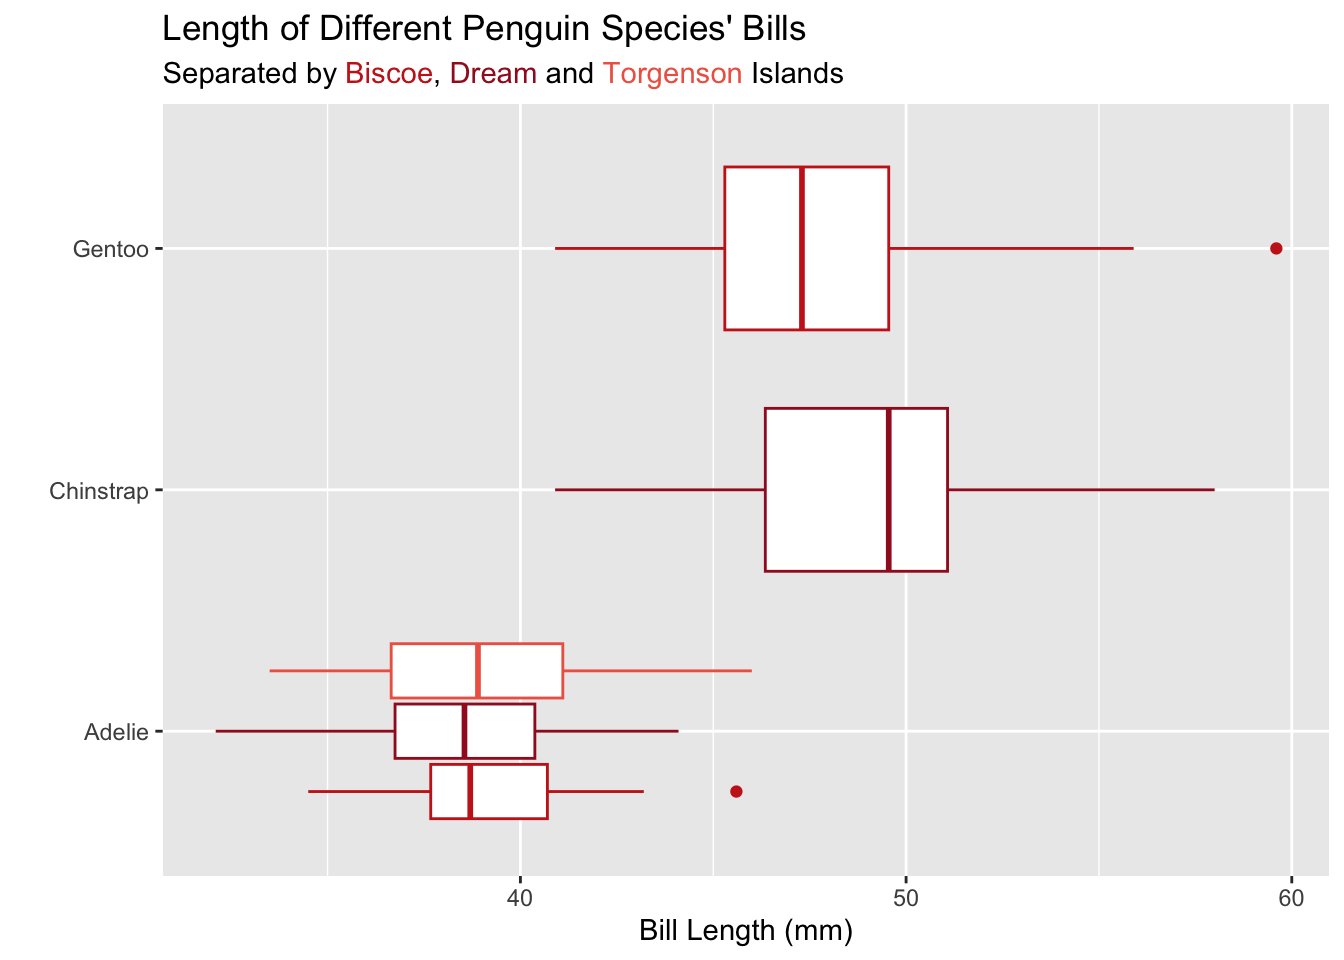
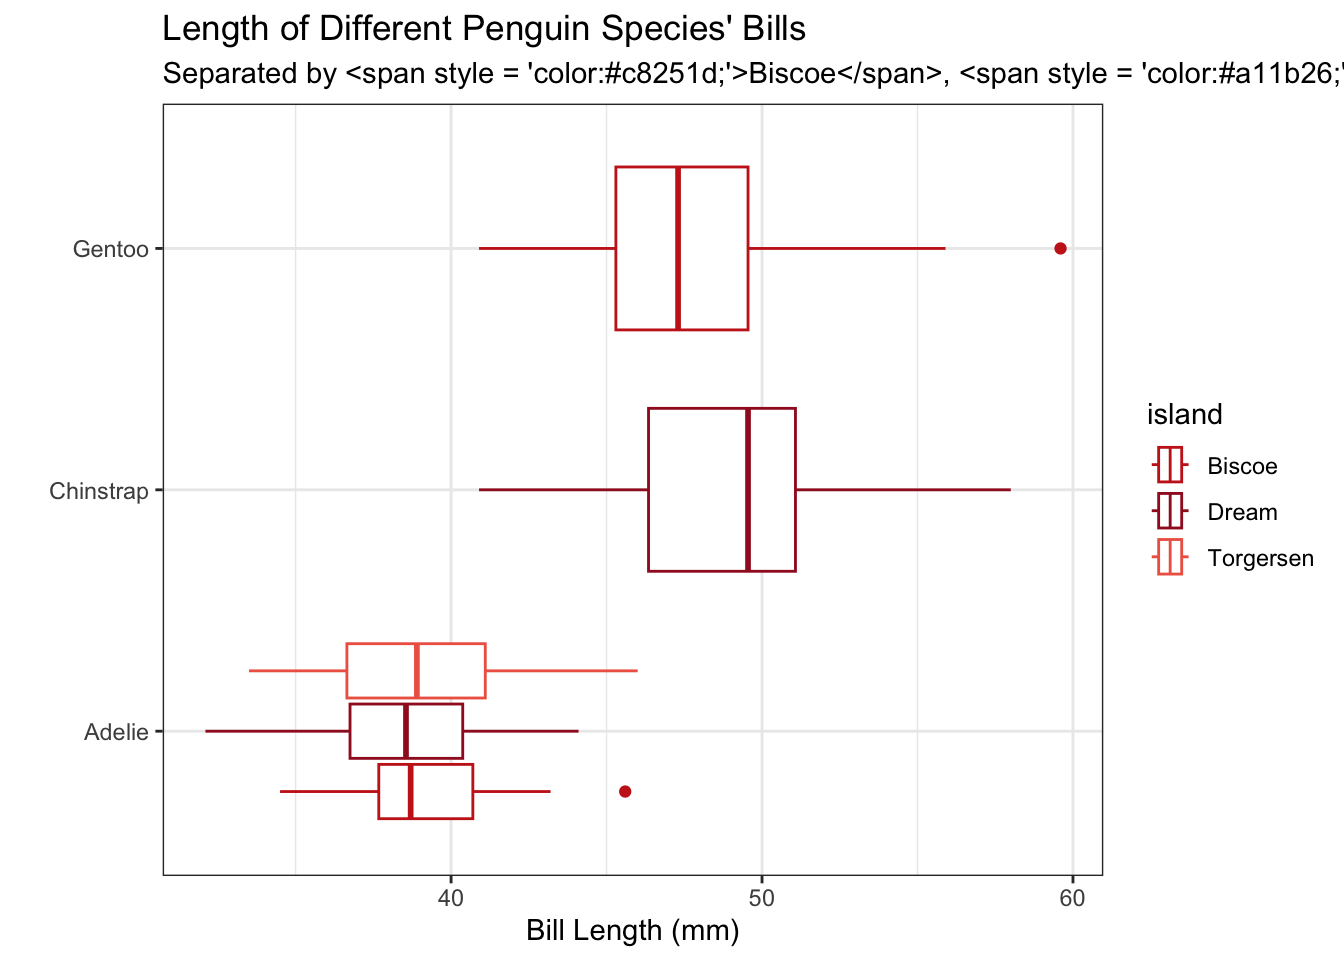
finished challenge 2, added themes and removed density ridges

diff --git a/docs/labs/instructions/challenge-2-instructions.html b/docs/labs/instructions/challenge-2-instructions.html
@@ -155,12 +155,17 @@ pre > code.sourceCode > span > a:first-child::before { text-decoration: underlin
     <h2 id="toc-title">On this page</h2>
    
   <ul>
-  <li><a href="#medium-ridge-plots" id="toc-medium-ridge-plots" class="nav-link active" data-scroll-target="#medium-ridge-plots"><svg aria-hidden="true" role="img" viewbox="0 0 512 512" style="height:1em;width:1em;vertical-align:-0.125em;margin-left:auto;margin-right:auto;font-size:inherit;fill:currentColor;overflow:visible;position:relative;"><path d="M428.3 3c11.6-6.4 26.2-2.3 32.6 9.3l4.8 8.7c19.3 34.7 19.8 75.7 3.4 110C495.8 159.6 512 197.9 512 240c0 18.5-3.1 36.3-8.9 52.8c-6.1 17.3-28.5 16.3-36.8-.1l-11.7-23.4c-4.1-8.1-12.4-13.3-21.5-13.3H360c-13.3 0-24-10.7-24-24V152c0-13.3-10.7-24-24-24l-17.1 0c-21.3 0-30-23.9-10.8-32.9C304.7 85.4 327.7 80 352 80c28.3 0 54.8 7.3 77.8 20.2c5.5-18.2 3.7-38.4-6-55.8L419 35.7c-6.4-11.6-2.3-26.2 9.3-32.6zM171.2 345.5L264 160l40 0v80c0 26.5 21.5 48 48 48h76.2l23.9 47.8C372.3 443.9 244.3 512 103.2 512H44.4C19.9 512 0 492.1 0 467.6c0-20.8 14.5-38.8 34.8-43.3l49.8-11.1c37.6-8.4 69.5-33.2 86.7-67.7z"></path></svg> Medium: Ridge Plots</a></li>
-  <li><a href="#spicy-exploring-color-themes" id="toc-spicy-exploring-color-themes" class="nav-link" data-scroll-target="#spicy-exploring-color-themes"><svg aria-hidden="true" role="img" viewbox="0 0 512 512" style="height:1em;width:1em;vertical-align:-0.125em;margin-left:auto;margin-right:auto;font-size:inherit;fill:currentColor;overflow:visible;position:relative;"><path d="M428.3 3c11.6-6.4 26.2-2.3 32.6 9.3l4.8 8.7c19.3 34.7 19.8 75.7 3.4 110C495.8 159.6 512 197.9 512 240c0 18.5-3.1 36.3-8.9 52.8c-6.1 17.3-28.5 16.3-36.8-.1l-11.7-23.4c-4.1-8.1-12.4-13.3-21.5-13.3H360c-13.3 0-24-10.7-24-24V152c0-13.3-10.7-24-24-24l-17.1 0c-21.3 0-30-23.9-10.8-32.9C304.7 85.4 327.7 80 352 80c28.3 0 54.8 7.3 77.8 20.2c5.5-18.2 3.7-38.4-6-55.8L419 35.7c-6.4-11.6-2.3-26.2 9.3-32.6zM171.2 345.5L264 160l40 0v80c0 26.5 21.5 48 48 48h76.2l23.9 47.8C372.3 443.9 244.3 512 103.2 512H44.4C19.9 512 0 492.1 0 467.6c0-20.8 14.5-38.8 34.8-43.3l49.8-11.1c37.6-8.4 69.5-33.2 86.7-67.7z"></path></svg> <svg aria-hidden="true" role="img" viewbox="0 0 512 512" style="height:1em;width:1em;vertical-align:-0.125em;margin-left:auto;margin-right:auto;font-size:inherit;fill:currentColor;overflow:visible;position:relative;"><path d="M428.3 3c11.6-6.4 26.2-2.3 32.6 9.3l4.8 8.7c19.3 34.7 19.8 75.7 3.4 110C495.8 159.6 512 197.9 512 240c0 18.5-3.1 36.3-8.9 52.8c-6.1 17.3-28.5 16.3-36.8-.1l-11.7-23.4c-4.1-8.1-12.4-13.3-21.5-13.3H360c-13.3 0-24-10.7-24-24V152c0-13.3-10.7-24-24-24l-17.1 0c-21.3 0-30-23.9-10.8-32.9C304.7 85.4 327.7 80 352 80c28.3 0 54.8 7.3 77.8 20.2c5.5-18.2 3.7-38.4-6-55.8L419 35.7c-6.4-11.6-2.3-26.2 9.3-32.6zM171.2 345.5L264 160l40 0v80c0 26.5 21.5 48 48 48h76.2l23.9 47.8C372.3 443.9 244.3 512 103.2 512H44.4C19.9 512 0 492.1 0 467.6c0-20.8 14.5-38.8 34.8-43.3l49.8-11.1c37.6-8.4 69.5-33.2 86.7-67.7z"></path></svg> Spicy: Exploring Color Themes</a>
+  <li><a href="#part-one-set-up" id="toc-part-one-set-up" class="nav-link active" data-scroll-target="#part-one-set-up">Part One: Set-up</a>
+  <ul class="collapse">
+  <li><a href="#accessing-the-challenge" id="toc-accessing-the-challenge" class="nav-link" data-scroll-target="#accessing-the-challenge">Accessing the Challenge</a></li>
+  <li><a href="#directions" id="toc-directions" class="nav-link" data-scroll-target="#directions">Directions</a></li>
+  </ul></li>
+  <li><a href="#medium-exploring-colors" id="toc-medium-exploring-colors" class="nav-link" data-scroll-target="#medium-exploring-colors"><svg aria-hidden="true" role="img" viewbox="0 0 512 512" style="height:1em;width:1em;vertical-align:-0.125em;margin-left:auto;margin-right:auto;font-size:inherit;fill:currentColor;overflow:visible;position:relative;"><path d="M428.3 3c11.6-6.4 26.2-2.3 32.6 9.3l4.8 8.7c19.3 34.7 19.8 75.7 3.4 110C495.8 159.6 512 197.9 512 240c0 18.5-3.1 36.3-8.9 52.8c-6.1 17.3-28.5 16.3-36.8-.1l-11.7-23.4c-4.1-8.1-12.4-13.3-21.5-13.3H360c-13.3 0-24-10.7-24-24V152c0-13.3-10.7-24-24-24l-17.1 0c-21.3 0-30-23.9-10.8-32.9C304.7 85.4 327.7 80 352 80c28.3 0 54.8 7.3 77.8 20.2c5.5-18.2 3.7-38.4-6-55.8L419 35.7c-6.4-11.6-2.3-26.2 9.3-32.6zM171.2 345.5L264 160l40 0v80c0 26.5 21.5 48 48 48h76.2l23.9 47.8C372.3 443.9 244.3 512 103.2 512H44.4C19.9 512 0 492.1 0 467.6c0-20.8 14.5-38.8 34.8-43.3l49.8-11.1c37.6-8.4 69.5-33.2 86.7-67.7z"></path></svg> Medium: Exploring Colors</a>
   <ul class="collapse">
   <li><a href="#manual-specification" id="toc-manual-specification" class="nav-link" data-scroll-target="#manual-specification">Manual Specification</a></li>
   <li><a href="#package-specification" id="toc-package-specification" class="nav-link" data-scroll-target="#package-specification">Package Specification</a></li>
   </ul></li>
+  <li><a href="#spicy-exploring-themes" id="toc-spicy-exploring-themes" class="nav-link" data-scroll-target="#spicy-exploring-themes"><svg aria-hidden="true" role="img" viewbox="0 0 512 512" style="height:1em;width:1em;vertical-align:-0.125em;margin-left:auto;margin-right:auto;font-size:inherit;fill:currentColor;overflow:visible;position:relative;"><path d="M428.3 3c11.6-6.4 26.2-2.3 32.6 9.3l4.8 8.7c19.3 34.7 19.8 75.7 3.4 110C495.8 159.6 512 197.9 512 240c0 18.5-3.1 36.3-8.9 52.8c-6.1 17.3-28.5 16.3-36.8-.1l-11.7-23.4c-4.1-8.1-12.4-13.3-21.5-13.3H360c-13.3 0-24-10.7-24-24V152c0-13.3-10.7-24-24-24l-17.1 0c-21.3 0-30-23.9-10.8-32.9C304.7 85.4 327.7 80 352 80c28.3 0 54.8 7.3 77.8 20.2c5.5-18.2 3.7-38.4-6-55.8L419 35.7c-6.4-11.6-2.3-26.2 9.3-32.6zM171.2 345.5L264 160l40 0v80c0 26.5 21.5 48 48 48h76.2l23.9 47.8C372.3 443.9 244.3 512 103.2 512H44.4C19.9 512 0 492.1 0 467.6c0-20.8 14.5-38.8 34.8-43.3l49.8-11.1c37.6-8.4 69.5-33.2 86.7-67.7z"></path></svg> <svg aria-hidden="true" role="img" viewbox="0 0 512 512" style="height:1em;width:1em;vertical-align:-0.125em;margin-left:auto;margin-right:auto;font-size:inherit;fill:currentColor;overflow:visible;position:relative;"><path d="M428.3 3c11.6-6.4 26.2-2.3 32.6 9.3l4.8 8.7c19.3 34.7 19.8 75.7 3.4 110C495.8 159.6 512 197.9 512 240c0 18.5-3.1 36.3-8.9 52.8c-6.1 17.3-28.5 16.3-36.8-.1l-11.7-23.4c-4.1-8.1-12.4-13.3-21.5-13.3H360c-13.3 0-24-10.7-24-24V152c0-13.3-10.7-24-24-24l-17.1 0c-21.3 0-30-23.9-10.8-32.9C304.7 85.4 327.7 80 352 80c28.3 0 54.8 7.3 77.8 20.2c5.5-18.2 3.7-38.4-6-55.8L419 35.7c-6.4-11.6-2.3-26.2 9.3-32.6zM171.2 345.5L264 160l40 0v80c0 26.5 21.5 48 48 48h76.2l23.9 47.8C372.3 443.9 244.3 512 103.2 512H44.4C19.9 512 0 492.1 0 467.6c0-20.8 14.5-38.8 34.8-43.3l49.8-11.1c37.6-8.4 69.5-33.2 86.7-67.7z"></path></svg> Spicy: Exploring Themes</a></li>
   <li><a href="#hot-embedding-the-legend-in-the-plot-title" id="toc-hot-embedding-the-legend-in-the-plot-title" class="nav-link" data-scroll-target="#hot-embedding-the-legend-in-the-plot-title"><svg aria-hidden="true" role="img" viewbox="0 0 512 512" style="height:1em;width:1em;vertical-align:-0.125em;margin-left:auto;margin-right:auto;font-size:inherit;fill:currentColor;overflow:visible;position:relative;"><path d="M428.3 3c11.6-6.4 26.2-2.3 32.6 9.3l4.8 8.7c19.3 34.7 19.8 75.7 3.4 110C495.8 159.6 512 197.9 512 240c0 18.5-3.1 36.3-8.9 52.8c-6.1 17.3-28.5 16.3-36.8-.1l-11.7-23.4c-4.1-8.1-12.4-13.3-21.5-13.3H360c-13.3 0-24-10.7-24-24V152c0-13.3-10.7-24-24-24l-17.1 0c-21.3 0-30-23.9-10.8-32.9C304.7 85.4 327.7 80 352 80c28.3 0 54.8 7.3 77.8 20.2c5.5-18.2 3.7-38.4-6-55.8L419 35.7c-6.4-11.6-2.3-26.2 9.3-32.6zM171.2 345.5L264 160l40 0v80c0 26.5 21.5 48 48 48h76.2l23.9 47.8C372.3 443.9 244.3 512 103.2 512H44.4C19.9 512 0 492.1 0 467.6c0-20.8 14.5-38.8 34.8-43.3l49.8-11.1c37.6-8.4 69.5-33.2 86.7-67.7z"></path></svg> <svg aria-hidden="true" role="img" viewbox="0 0 512 512" style="height:1em;width:1em;vertical-align:-0.125em;margin-left:auto;margin-right:auto;font-size:inherit;fill:currentColor;overflow:visible;position:relative;"><path d="M428.3 3c11.6-6.4 26.2-2.3 32.6 9.3l4.8 8.7c19.3 34.7 19.8 75.7 3.4 110C495.8 159.6 512 197.9 512 240c0 18.5-3.1 36.3-8.9 52.8c-6.1 17.3-28.5 16.3-36.8-.1l-11.7-23.4c-4.1-8.1-12.4-13.3-21.5-13.3H360c-13.3 0-24-10.7-24-24V152c0-13.3-10.7-24-24-24l-17.1 0c-21.3 0-30-23.9-10.8-32.9C304.7 85.4 327.7 80 352 80c28.3 0 54.8 7.3 77.8 20.2c5.5-18.2 3.7-38.4-6-55.8L419 35.7c-6.4-11.6-2.3-26.2 9.3-32.6zM171.2 345.5L264 160l40 0v80c0 26.5 21.5 48 48 48h76.2l23.9 47.8C372.3 443.9 244.3 512 103.2 512H44.4C19.9 512 0 492.1 0 467.6c0-20.8 14.5-38.8 34.8-43.3l49.8-11.1c37.6-8.4 69.5-33.2 86.7-67.7z"></path></svg> <svg aria-hidden="true" role="img" viewbox="0 0 512 512" style="height:1em;width:1em;vertical-align:-0.125em;margin-left:auto;margin-right:auto;font-size:inherit;fill:currentColor;overflow:visible;position:relative;"><path d="M428.3 3c11.6-6.4 26.2-2.3 32.6 9.3l4.8 8.7c19.3 34.7 19.8 75.7 3.4 110C495.8 159.6 512 197.9 512 240c0 18.5-3.1 36.3-8.9 52.8c-6.1 17.3-28.5 16.3-36.8-.1l-11.7-23.4c-4.1-8.1-12.4-13.3-21.5-13.3H360c-13.3 0-24-10.7-24-24V152c0-13.3-10.7-24-24-24l-17.1 0c-21.3 0-30-23.9-10.8-32.9C304.7 85.4 327.7 80 352 80c28.3 0 54.8 7.3 77.8 20.2c5.5-18.2 3.7-38.4-6-55.8L419 35.7c-6.4-11.6-2.3-26.2 9.3-32.6zM171.2 345.5L264 160l40 0v80c0 26.5 21.5 48 48 48h76.2l23.9 47.8C372.3 443.9 244.3 512 103.2 512H44.4C19.9 512 0 492.1 0 467.6c0-20.8 14.5-38.8 34.8-43.3l49.8-11.1c37.6-8.4 69.5-33.2 86.7-67.7z"></path></svg> Hot: Embedding the Legend in the Plot Title</a>
   <ul class="collapse">
   <li><a href="#embedding-legend-in-plot-title" id="toc-embedding-legend-in-plot-title" class="nav-link" data-scroll-target="#embedding-legend-in-plot-title">Embedding Legend in Plot Title</a></li>
@@ -191,7 +196,28 @@ pre > code.sourceCode > span > a:first-child::before { text-decoration: underlin
 </header>
 
 
-<p>For this week’s Challenge, you will have three different options to explore. I’ve arranged these options in terms of their “spiciness,” or the difficulty of completing the task. <strong>You are only required to complete one task, but if you are interested in exploring more than one, feel free!</strong></p>
+<section id="part-one-set-up" class="level1">
+<h1>Part One: Set-up</h1>
+<section id="accessing-the-challenge" class="level2">
+<h2 class="anchored" data-anchor-id="accessing-the-challenge">Accessing the Challenge</h2>
+<p>Download the template Challenge 2 Quarto file here: <a href="../student/challenge-2-student.qmd" download=""><code>challenge-2-student.qmd</code></a></p>
+<div class="callout callout-style-default callout-important callout-titled">
+<div class="callout-header d-flex align-content-center">
+<div class="callout-icon-container">
+<i class="callout-icon"></i>
+</div>
+<div class="callout-title-container flex-fill">
+Important
+</div>
+</div>
+<div class="callout-body-container callout-body">
+<p>Be sure to save the file in the Lab 2 folder, inside your Week 2 folder, inside your STAT 331 folder!</p>
+</div>
+</div>
+</section>
+<section id="directions" class="level2">
+<h2 class="anchored" data-anchor-id="directions">Directions</h2>
+<p>For this week’s Challenge, you will have two different options to explore. I’ve arranged these options in terms of their “spiciness,” or the difficulty of completing the task. <strong>You are only required to complete one task, but if you are interested in exploring more than one, feel free!</strong></p>
 <p>This is a great place to let your creativity show! Make sure to indicate what additional touches you added, and provide any online references you used.</p>
 <div class="callout callout-style-default callout-tip callout-titled">
 <div class="callout-header d-flex align-content-center">
@@ -203,21 +229,13 @@ Tip
 </div>
 </div>
 <div class="callout-body-container callout-body">
-<p>You will be working in the <code>challenge-2.qmd</code> file, found in the repository you cloned for Lab 2. Within this document, make sure to specify that your plots are contained in your document (<code>self-contained: true</code>) and that your code is visible to the reader (<code>echo: true</code>). If there are other formatting specifics you would like to include, feel free to toss those in the YAML, too!</p>
-<p>Then, create a setup code chunk to load the packages and read in the <code>surveys.csv</code> data file exactly how you did in Lab 2.</p>
-<p>Create another code chunk and paste in your code from Question 14 or Question 15 in Lab 2 – we will be modifying the box plot of weights by species!</p>
+<p>For this challenge you will be modifying the code you wrote for Lab 2 – we will be modifying the box plot of weights by species!</p>
 </div>
 </div>
-<section id="medium-ridge-plots" class="level1">
-<h1><svg aria-hidden="true" role="img" viewbox="0 0 512 512" style="height:1em;width:1em;vertical-align:-0.125em;margin-left:auto;margin-right:auto;font-size:inherit;fill:currentColor;overflow:visible;position:relative;"><path d="M428.3 3c11.6-6.4 26.2-2.3 32.6 9.3l4.8 8.7c19.3 34.7 19.8 75.7 3.4 110C495.8 159.6 512 197.9 512 240c0 18.5-3.1 36.3-8.9 52.8c-6.1 17.3-28.5 16.3-36.8-.1l-11.7-23.4c-4.1-8.1-12.4-13.3-21.5-13.3H360c-13.3 0-24-10.7-24-24V152c0-13.3-10.7-24-24-24l-17.1 0c-21.3 0-30-23.9-10.8-32.9C304.7 85.4 327.7 80 352 80c28.3 0 54.8 7.3 77.8 20.2c5.5-18.2 3.7-38.4-6-55.8L419 35.7c-6.4-11.6-2.3-26.2 9.3-32.6zM171.2 345.5L264 160l40 0v80c0 26.5 21.5 48 48 48h76.2l23.9 47.8C372.3 443.9 244.3 512 103.2 512H44.4C19.9 512 0 492.1 0 467.6c0-20.8 14.5-38.8 34.8-43.3l49.8-11.1c37.6-8.4 69.5-33.2 86.7-67.7z"></path></svg> Medium: Ridge Plots</h1>
-<p>In Lab 2, you used side-by-side <strong>boxplots</strong> to visualize the distribution of weight within each species of rodent. Boxplots have <a href="https://www.data-to-viz.com/caveat/boxplot.html">substantial flaws</a>, namely that they disguise distributions with multiple modes.</p>
-<p>A “superior” alternative is the density plot. However, <code>ggplot2</code> does not allow for side-by-side density plots using <code>geom_density()</code>. Instead, we will need to make use of the <strong>ggridges</strong> package to create side-by-side density (ridge) plots.</p>
-<blockquote class="blockquote">
-<p><strong>For this challenge you are to change your boxplots to ridge plots. You will need to install the ggridges package and explore the <code>geom_density_ridges()</code> function.</strong></p>
-</blockquote>
 </section>
-<section id="spicy-exploring-color-themes" class="level1">
-<h1><svg aria-hidden="true" role="img" viewbox="0 0 512 512" style="height:1em;width:1em;vertical-align:-0.125em;margin-left:auto;margin-right:auto;font-size:inherit;fill:currentColor;overflow:visible;position:relative;"><path d="M428.3 3c11.6-6.4 26.2-2.3 32.6 9.3l4.8 8.7c19.3 34.7 19.8 75.7 3.4 110C495.8 159.6 512 197.9 512 240c0 18.5-3.1 36.3-8.9 52.8c-6.1 17.3-28.5 16.3-36.8-.1l-11.7-23.4c-4.1-8.1-12.4-13.3-21.5-13.3H360c-13.3 0-24-10.7-24-24V152c0-13.3-10.7-24-24-24l-17.1 0c-21.3 0-30-23.9-10.8-32.9C304.7 85.4 327.7 80 352 80c28.3 0 54.8 7.3 77.8 20.2c5.5-18.2 3.7-38.4-6-55.8L419 35.7c-6.4-11.6-2.3-26.2 9.3-32.6zM171.2 345.5L264 160l40 0v80c0 26.5 21.5 48 48 48h76.2l23.9 47.8C372.3 443.9 244.3 512 103.2 512H44.4C19.9 512 0 492.1 0 467.6c0-20.8 14.5-38.8 34.8-43.3l49.8-11.1c37.6-8.4 69.5-33.2 86.7-67.7z"></path></svg> <svg aria-hidden="true" role="img" viewbox="0 0 512 512" style="height:1em;width:1em;vertical-align:-0.125em;margin-left:auto;margin-right:auto;font-size:inherit;fill:currentColor;overflow:visible;position:relative;"><path d="M428.3 3c11.6-6.4 26.2-2.3 32.6 9.3l4.8 8.7c19.3 34.7 19.8 75.7 3.4 110C495.8 159.6 512 197.9 512 240c0 18.5-3.1 36.3-8.9 52.8c-6.1 17.3-28.5 16.3-36.8-.1l-11.7-23.4c-4.1-8.1-12.4-13.3-21.5-13.3H360c-13.3 0-24-10.7-24-24V152c0-13.3-10.7-24-24-24l-17.1 0c-21.3 0-30-23.9-10.8-32.9C304.7 85.4 327.7 80 352 80c28.3 0 54.8 7.3 77.8 20.2c5.5-18.2 3.7-38.4-6-55.8L419 35.7c-6.4-11.6-2.3-26.2 9.3-32.6zM171.2 345.5L264 160l40 0v80c0 26.5 21.5 48 48 48h76.2l23.9 47.8C372.3 443.9 244.3 512 103.2 512H44.4C19.9 512 0 492.1 0 467.6c0-20.8 14.5-38.8 34.8-43.3l49.8-11.1c37.6-8.4 69.5-33.2 86.7-67.7z"></path></svg> Spicy: Exploring Color Themes</h1>
+</section>
+<section id="medium-exploring-colors" class="level1">
+<h1><svg aria-hidden="true" role="img" viewbox="0 0 512 512" style="height:1em;width:1em;vertical-align:-0.125em;margin-left:auto;margin-right:auto;font-size:inherit;fill:currentColor;overflow:visible;position:relative;"><path d="M428.3 3c11.6-6.4 26.2-2.3 32.6 9.3l4.8 8.7c19.3 34.7 19.8 75.7 3.4 110C495.8 159.6 512 197.9 512 240c0 18.5-3.1 36.3-8.9 52.8c-6.1 17.3-28.5 16.3-36.8-.1l-11.7-23.4c-4.1-8.1-12.4-13.3-21.5-13.3H360c-13.3 0-24-10.7-24-24V152c0-13.3-10.7-24-24-24l-17.1 0c-21.3 0-30-23.9-10.8-32.9C304.7 85.4 327.7 80 352 80c28.3 0 54.8 7.3 77.8 20.2c5.5-18.2 3.7-38.4-6-55.8L419 35.7c-6.4-11.6-2.3-26.2 9.3-32.6zM171.2 345.5L264 160l40 0v80c0 26.5 21.5 48 48 48h76.2l23.9 47.8C372.3 443.9 244.3 512 103.2 512H44.4C19.9 512 0 492.1 0 467.6c0-20.8 14.5-38.8 34.8-43.3l49.8-11.1c37.6-8.4 69.5-33.2 86.7-67.7z"></path></svg> Medium: Exploring Colors</h1>
 <p>The built-in <code>ggplot()</code> color scheme may not include the colors you were looking for. Don’t worry – there are many other color palettes available to use!</p>
 <p>You can change the colors used by <code>ggplot()</code> in a few different ways.</p>
 <section id="manual-specification" class="level3">
@@ -285,9 +303,25 @@ Note
 </div>
 </div>
 <blockquote class="blockquote">
-<p><strong>In this challenge you are expected to use this information to modify the boxplots you created Lab 2. First, you are to color the boxplots based on the variable <code>sex</code>. Next, you are to change the colors used for <code>sex</code> using either manual color specification or any of the packages listed here (or others!).</strong></p>
+<p><strong>For this challenge you are expected to use this information to modify the boxplots you created Lab 2. First, you are to color the boxplots based on the variable <code>sex</code>. Next, you are to change the colors used for <code>sex</code> using either manual color specification or any of the packages listed here (or others!).</strong></p>
 </blockquote>
 </section>
+</section>
+<section id="spicy-exploring-themes" class="level1">
+<h1><svg aria-hidden="true" role="img" viewbox="0 0 512 512" style="height:1em;width:1em;vertical-align:-0.125em;margin-left:auto;margin-right:auto;font-size:inherit;fill:currentColor;overflow:visible;position:relative;"><path d="M428.3 3c11.6-6.4 26.2-2.3 32.6 9.3l4.8 8.7c19.3 34.7 19.8 75.7 3.4 110C495.8 159.6 512 197.9 512 240c0 18.5-3.1 36.3-8.9 52.8c-6.1 17.3-28.5 16.3-36.8-.1l-11.7-23.4c-4.1-8.1-12.4-13.3-21.5-13.3H360c-13.3 0-24-10.7-24-24V152c0-13.3-10.7-24-24-24l-17.1 0c-21.3 0-30-23.9-10.8-32.9C304.7 85.4 327.7 80 352 80c28.3 0 54.8 7.3 77.8 20.2c5.5-18.2 3.7-38.4-6-55.8L419 35.7c-6.4-11.6-2.3-26.2 9.3-32.6zM171.2 345.5L264 160l40 0v80c0 26.5 21.5 48 48 48h76.2l23.9 47.8C372.3 443.9 244.3 512 103.2 512H44.4C19.9 512 0 492.1 0 467.6c0-20.8 14.5-38.8 34.8-43.3l49.8-11.1c37.6-8.4 69.5-33.2 86.7-67.7z"></path></svg> <svg aria-hidden="true" role="img" viewbox="0 0 512 512" style="height:1em;width:1em;vertical-align:-0.125em;margin-left:auto;margin-right:auto;font-size:inherit;fill:currentColor;overflow:visible;position:relative;"><path d="M428.3 3c11.6-6.4 26.2-2.3 32.6 9.3l4.8 8.7c19.3 34.7 19.8 75.7 3.4 110C495.8 159.6 512 197.9 512 240c0 18.5-3.1 36.3-8.9 52.8c-6.1 17.3-28.5 16.3-36.8-.1l-11.7-23.4c-4.1-8.1-12.4-13.3-21.5-13.3H360c-13.3 0-24-10.7-24-24V152c0-13.3-10.7-24-24-24l-17.1 0c-21.3 0-30-23.9-10.8-32.9C304.7 85.4 327.7 80 352 80c28.3 0 54.8 7.3 77.8 20.2c5.5-18.2 3.7-38.4-6-55.8L419 35.7c-6.4-11.6-2.3-26.2 9.3-32.6zM171.2 345.5L264 160l40 0v80c0 26.5 21.5 48 48 48h76.2l23.9 47.8C372.3 443.9 244.3 512 103.2 512H44.4C19.9 512 0 492.1 0 467.6c0-20.8 14.5-38.8 34.8-43.3l49.8-11.1c37.6-8.4 69.5-33.2 86.7-67.7z"></path></svg> Spicy: Exploring Themes</h1>
+<p>Themes are another vital component to creating clear plots. During lecture, Dr.&nbsp;Theobold mentioned that they like using <code>theme_bw()</code> for a built-in theme, since it has a white background and easy to see grid lines. However, there are SO many more ways you can control the appearance of a plot using the <code>theme()</code> function.</p>
+<blockquote class="blockquote">
+<p><strong>For this challenge you are expected to use the <code>theme()</code> function to modify at least two aspects of your plot, with the goal of making your plot clearer to the reader. You need to <em>explain why</em> you made the decisions you did.</strong></p>
+</blockquote>
+<p>Some ideas you might consider:</p>
+<ul>
+<li>changing the size of the font to make your plot titles more readable</li>
+<li>changing the font in your plot to be your favorite font (remember it needs to <strong>improve</strong> the plot ;) )</li>
+<li>removing the minor grid lines (since they can be a bit distracting)</li>
+<li>adjust spacing between axis title and labels</li>
+<li>remove axis ticks</li>
+<li>add borders to the plot</li>
+</ul>
 </section>
 <section id="hot-embedding-the-legend-in-the-plot-title" class="level1">
 <h1><svg aria-hidden="true" role="img" viewbox="0 0 512 512" style="height:1em;width:1em;vertical-align:-0.125em;margin-left:auto;margin-right:auto;font-size:inherit;fill:currentColor;overflow:visible;position:relative;"><path d="M428.3 3c11.6-6.4 26.2-2.3 32.6 9.3l4.8 8.7c19.3 34.7 19.8 75.7 3.4 110C495.8 159.6 512 197.9 512 240c0 18.5-3.1 36.3-8.9 52.8c-6.1 17.3-28.5 16.3-36.8-.1l-11.7-23.4c-4.1-8.1-12.4-13.3-21.5-13.3H360c-13.3 0-24-10.7-24-24V152c0-13.3-10.7-24-24-24l-17.1 0c-21.3 0-30-23.9-10.8-32.9C304.7 85.4 327.7 80 352 80c28.3 0 54.8 7.3 77.8 20.2c5.5-18.2 3.7-38.4-6-55.8L419 35.7c-6.4-11.6-2.3-26.2 9.3-32.6zM171.2 345.5L264 160l40 0v80c0 26.5 21.5 48 48 48h76.2l23.9 47.8C372.3 443.9 244.3 512 103.2 512H44.4C19.9 512 0 492.1 0 467.6c0-20.8 14.5-38.8 34.8-43.3l49.8-11.1c37.6-8.4 69.5-33.2 86.7-67.7z"></path></svg> <svg aria-hidden="true" role="img" viewbox="0 0 512 512" style="height:1em;width:1em;vertical-align:-0.125em;margin-left:auto;margin-right:auto;font-size:inherit;fill:currentColor;overflow:visible;position:relative;"><path d="M428.3 3c11.6-6.4 26.2-2.3 32.6 9.3l4.8 8.7c19.3 34.7 19.8 75.7 3.4 110C495.8 159.6 512 197.9 512 240c0 18.5-3.1 36.3-8.9 52.8c-6.1 17.3-28.5 16.3-36.8-.1l-11.7-23.4c-4.1-8.1-12.4-13.3-21.5-13.3H360c-13.3 0-24-10.7-24-24V152c0-13.3-10.7-24-24-24l-17.1 0c-21.3 0-30-23.9-10.8-32.9C304.7 85.4 327.7 80 352 80c28.3 0 54.8 7.3 77.8 20.2c5.5-18.2 3.7-38.4-6-55.8L419 35.7c-6.4-11.6-2.3-26.2 9.3-32.6zM171.2 345.5L264 160l40 0v80c0 26.5 21.5 48 48 48h76.2l23.9 47.8C372.3 443.9 244.3 512 103.2 512H44.4C19.9 512 0 492.1 0 467.6c0-20.8 14.5-38.8 34.8-43.3l49.8-11.1c37.6-8.4 69.5-33.2 86.7-67.7z"></path></svg> <svg aria-hidden="true" role="img" viewbox="0 0 512 512" style="height:1em;width:1em;vertical-align:-0.125em;margin-left:auto;margin-right:auto;font-size:inherit;fill:currentColor;overflow:visible;position:relative;"><path d="M428.3 3c11.6-6.4 26.2-2.3 32.6 9.3l4.8 8.7c19.3 34.7 19.8 75.7 3.4 110C495.8 159.6 512 197.9 512 240c0 18.5-3.1 36.3-8.9 52.8c-6.1 17.3-28.5 16.3-36.8-.1l-11.7-23.4c-4.1-8.1-12.4-13.3-21.5-13.3H360c-13.3 0-24-10.7-24-24V152c0-13.3-10.7-24-24-24l-17.1 0c-21.3 0-30-23.9-10.8-32.9C304.7 85.4 327.7 80 352 80c28.3 0 54.8 7.3 77.8 20.2c5.5-18.2 3.7-38.4-6-55.8L419 35.7c-6.4-11.6-2.3-26.2 9.3-32.6zM171.2 345.5L264 160l40 0v80c0 26.5 21.5 48 48 48h76.2l23.9 47.8C372.3 443.9 244.3 512 103.2 512H44.4C19.9 512 0 492.1 0 467.6c0-20.8 14.5-38.8 34.8-43.3l49.8-11.1c37.6-8.4 69.5-33.2 86.7-67.7z"></path></svg> Hot: Embedding the Legend in the Plot Title</h1>
@@ -313,7 +347,8 @@ Note
 <span id="cb3-10"><a href="#cb3-10" aria-hidden="true" tabindex="-1"></a>  <span class="fu">theme</span>(</span>
 <span id="cb3-11"><a href="#cb3-11" aria-hidden="true" tabindex="-1"></a>    <span class="at">legend.position =</span> <span class="st">"none"</span>, </span>
 <span id="cb3-12"><a href="#cb3-12" aria-hidden="true" tabindex="-1"></a>    <span class="at">plot.subtitle =</span> <span class="fu">element_markdown</span>()</span>
-<span id="cb3-13"><a href="#cb3-13" aria-hidden="true" tabindex="-1"></a>    )</span></code><button title="Copy to Clipboard" class="code-copy-button"><i class="bi"></i></button></pre></div>
+<span id="cb3-13"><a href="#cb3-13" aria-hidden="true" tabindex="-1"></a>    ) <span class="sc">+</span></span>
+<span id="cb3-14"><a href="#cb3-14" aria-hidden="true" tabindex="-1"></a>  <span class="fu">theme_bw</span>()</span></code><button title="Copy to Clipboard" class="code-copy-button"><i class="bi"></i></button></pre></div>
 <div class="cell-output-display">
 <div>
 <figure class="figure">
@@ -324,7 +359,7 @@ Note
 </div>
 <p>Notice that the subtitle is still specified as a string. Inside the string there are HTML elements (<code>&lt;span&gt;</code>) that declare the colors of the text. For example, <code>&lt;span style = 'color:#c8251d;'&gt;Biscoe&lt;/span&gt;</code> declares that the text “Biscoe” should be printed with the color <code>#c8251d</code>. The beginning of the span (<code>&lt;span</code>) and the end of the span (<code>&lt;/span&gt;</code>) declare when the coloring starts and ends.</p>
 <blockquote class="blockquote">
-<p><strong>In this challenge you are expected to use this information to modify the boxplots you created in Lab 2. First, you are to color the boxplots based on the variable <code>sex</code>. Next, you need to move the legend colors for each level of <code>sex</code> into the plot title or subtitle. Finally, you are expected to use the <code>theme()</code> function to remove the color legend from the plot, since it is no longer needed!</strong></p>
+<p><strong>For this challenge you are expected to use this information to modify the boxplots you created in Lab 2. First, you are to color the boxplots based on the variable <code>sex</code>. Next, you need to move the legend colors for each level of <code>sex</code> into the plot title or subtitle. Finally, you are expected to use the <code>theme()</code> function to remove the color legend from the plot, since it is no longer needed!</strong></p>
 </blockquote>
 </section>
 </section>
